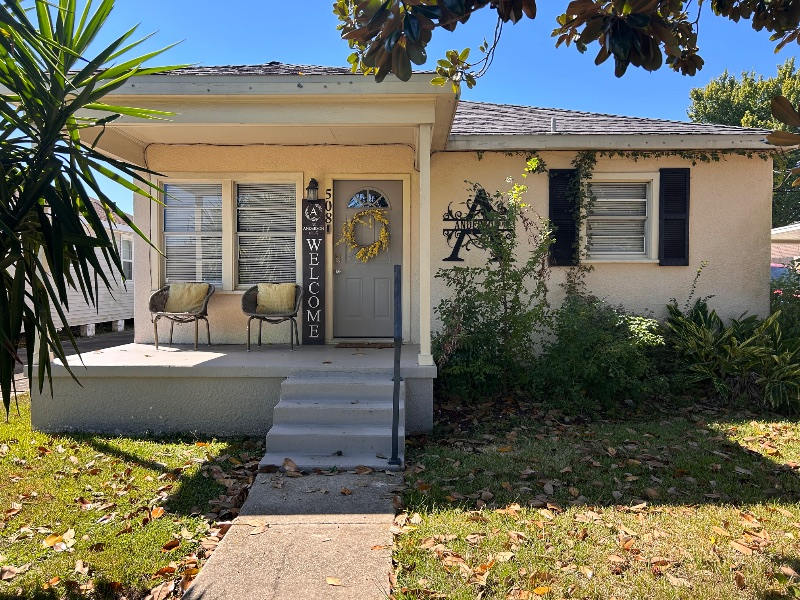
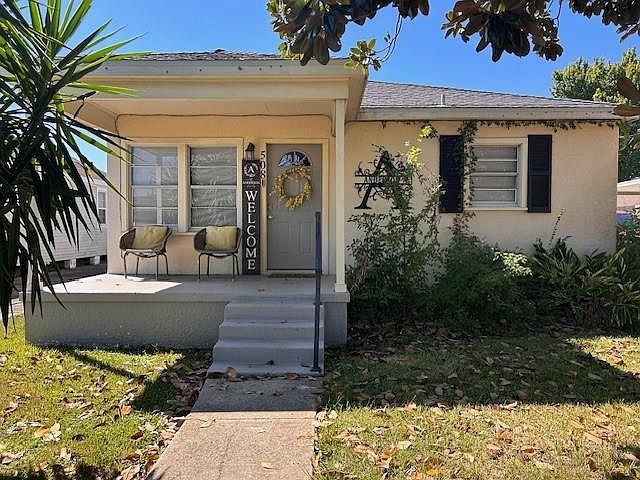
Revert the property photos to their pre-today state
Both Tricou galleries go back to the 08-23 originals at 1600px, and 508's
three swapped photos return to their earlier versions. The one thing not
reverted is 508's bathroom.jpg: yesterday's file was a photo of a bedroom
sitting under a "Bathroom" label, so restoring it would put a known factual
error back on the page. The current file is the actual bathroom.

This also removes the photos added today, which is worth stating plainly since
they filled real gaps: 1334 loses its bathroom and backyard shots, and 1332
loses its bedroom, bathroom and backyard. 1332 is listed as 2bd/2ba and once
again shows neither a bedroom nor a bathroom.

Thumbnail files are removed with the galleries that used them, so pages are
back to loading the full-size images directly.

diff --git a/public/property-508-avenue-e.html b/public/property-508-avenue-e.html
@@ -99,28 +99,28 @@
       </div>
       <div class="gallery-thumbs">
         <button class="active" data-full="images/properties/508-avenue-e/exterior-front.jpg" data-alt="Front exterior of 508 Avenue E">
-          <img src="images/properties/thumbs/508-avenue-e/exterior-front.jpg" alt="Front exterior thumbnail" width="480" height="319" loading="lazy">
+          <img src="images/properties/508-avenue-e/exterior-front.jpg" alt="Front exterior thumbnail" width="1024" height="682" loading="lazy">
         </button>
         <button data-full="images/properties/508-avenue-e/exterior-porch.jpg" data-alt="Front porch at 508 Avenue E">
-          <img src="images/properties/thumbs/508-avenue-e/exterior-porch.jpg" alt="Front porch thumbnail" width="480" height="360" loading="lazy">
+          <img src="images/properties/508-avenue-e/exterior-porch.jpg" alt="Front porch thumbnail" width="640" height="480" loading="lazy">
         </button>
         <button data-full="images/properties/508-avenue-e/living-room.jpg" data-alt="Living room at 508 Avenue E">
-          <img src="images/properties/thumbs/508-avenue-e/living-room.jpg" alt="Living room thumbnail" width="480" height="319" loading="lazy">
+          <img src="images/properties/508-avenue-e/living-room.jpg" alt="Living room thumbnail" width="1024" height="682" loading="lazy">
         </button>
         <button data-full="images/properties/508-avenue-e/living-room-furnished.jpg" data-alt="Living room at 508 Avenue E">
-          <img src="images/properties/thumbs/508-avenue-e/living-room-furnished.jpg" alt="Living room thumbnail" width="480" height="360" loading="lazy">
+          <img src="images/properties/508-avenue-e/living-room-furnished.jpg" alt="Living room thumbnail" width="640" height="480" loading="lazy">
         </button>
         <button data-full="images/properties/508-avenue-e/living-room-furnished-2.jpg" data-alt="Living room at 508 Avenue E">
-          <img src="images/properties/thumbs/508-avenue-e/living-room-furnished-2.jpg" alt="Living room thumbnail" width="480" height="360" loading="lazy">
+          <img src="images/properties/508-avenue-e/living-room-furnished-2.jpg" alt="Living room thumbnail" width="640" height="480" loading="lazy">
         </button>
         <button data-full="images/properties/508-avenue-e/kitchen.jpg" data-alt="Kitchen at 508 Avenue E">
-          <img src="images/properties/thumbs/508-avenue-e/kitchen.jpg" alt="Kitchen thumbnail" width="480" height="319" loading="lazy">
+          <img src="images/properties/508-avenue-e/kitchen.jpg" alt="Kitchen thumbnail" width="1024" height="682" loading="lazy">
         </button>
         <button data-full="images/properties/508-avenue-e/bedroom.jpg" data-alt="Bedroom at 508 Avenue E">
-          <img src="images/properties/thumbs/508-avenue-e/bedroom.jpg" alt="Bedroom thumbnail" width="480" height="319" loading="lazy">
+          <img src="images/properties/508-avenue-e/bedroom.jpg" alt="Bedroom thumbnail" width="1024" height="682" loading="lazy">
         </button>
         <button data-full="images/properties/508-avenue-e/bathroom.jpg" data-alt="Bathroom at 508 Avenue E">
-          <img src="images/properties/thumbs/508-avenue-e/bathroom.jpg" alt="Bathroom thumbnail" width="480" height="360" loading="lazy">
+          <img src="images/properties/508-avenue-e/bathroom.jpg" alt="Bathroom thumbnail" width="800" height="600" loading="lazy">
         </button>
       </div>
     </div>

diff --git a/public/property-1334-tricou-st.html b/public/property-1334-tricou-st.html
@@ -95,29 +95,23 @@
 
     <div class="gallery" data-gallery>
       <div class="gallery-main">
-        <img src="images/properties/1334-tricou/exterior-front.jpg" alt="Front exterior of 1334 Tricou St" width="1125" height="721">
+        <img src="images/properties/1334-tricou/exterior-front.jpg" alt="Front exterior of 1334 Tricou St" width="1600" height="1563">
       </div>
       <div class="gallery-thumbs">
         <button class="active" data-full="images/properties/1334-tricou/exterior-front.jpg" data-alt="Front exterior of 1334 Tricou St">
-          <img src="images/properties/thumbs/1334-tricou/exterior-front.jpg" alt="Front exterior thumbnail" width="480" height="307" loading="lazy">
+          <img src="images/properties/1334-tricou/exterior-front.jpg" alt="Front exterior thumbnail" width="1600" height="1563" loading="lazy">
         </button>
         <button data-full="images/properties/1334-tricou/living-room-wide.jpg" data-alt="Living room at 1334 Tricou St">
-          <img src="images/properties/thumbs/1334-tricou/living-room-wide.jpg" alt="Living room thumbnail" width="480" height="335" loading="lazy">
+          <img src="images/properties/1334-tricou/living-room-wide.jpg" alt="Living room thumbnail" width="1600" height="1200" loading="lazy">
         </button>
         <button data-full="images/properties/1334-tricou/kitchen.jpg" data-alt="Kitchen at 1334 Tricou St">
-          <img src="images/properties/thumbs/1334-tricou/kitchen.jpg" alt="Kitchen thumbnail" width="480" height="360" loading="lazy">
+          <img src="images/properties/1334-tricou/kitchen.jpg" alt="Kitchen thumbnail" width="1600" height="1200" loading="lazy">
         </button>
         <button data-full="images/properties/1334-tricou/bedroom.jpg" data-alt="Bedroom at 1334 Tricou St">
-          <img src="images/properties/thumbs/1334-tricou/bedroom.jpg" alt="Bedroom thumbnail" width="480" height="360" loading="lazy">
+          <img src="images/properties/1334-tricou/bedroom.jpg" alt="Bedroom thumbnail" width="1600" height="1200" loading="lazy">
         </button>
         <button data-full="images/properties/1334-tricou/living-room.jpg" data-alt="Open-plan living and dining area at 1334 Tricou St">
-          <img src="images/properties/thumbs/1334-tricou/living-room.jpg" alt="Open-plan living area thumbnail" width="480" height="335" loading="lazy">
-        </button>
-        <button data-full="images/properties/1334-tricou/bathroom.jpg" data-alt="Bathroom at 1334 Tricou St">
-          <img src="images/properties/thumbs/1334-tricou/bathroom.jpg" alt="Bathroom thumbnail" width="480" height="360" loading="lazy">
-        </button>
-        <button data-full="images/properties/1334-tricou/backyard.jpg" data-alt="Fenced backyard at 1334 Tricou St">
-          <img src="images/properties/thumbs/1334-tricou/backyard.jpg" alt="Backyard thumbnail" width="480" height="335" loading="lazy">
+          <img src="images/properties/1334-tricou/living-room.jpg" alt="Open-plan living area thumbnail" width="1600" height="1200" loading="lazy">
         </button>
       </div>
     </div>

diff --git a/public/property-1332-tricou-st.html b/public/property-1332-tricou-st.html
@@ -99,28 +99,19 @@
       </div>
       <div class="gallery-thumbs">
         <button class="active" data-full="images/properties/1332-tricou/exterior-front.jpg" data-alt="Front exterior of 1332 Tricou St">
-          <img src="images/properties/thumbs/1332-tricou/exterior-front.jpg" alt="Front exterior thumbnail" width="480" height="320" loading="lazy">
+          <img src="images/properties/1332-tricou/exterior-front.jpg" alt="Front exterior thumbnail" width="1600" height="1067" loading="lazy">
         </button>
         <button data-full="images/properties/1332-tricou/exterior-side.jpg" data-alt="Side exterior of 1332 Tricou St">
-          <img src="images/properties/thumbs/1332-tricou/exterior-side.jpg" alt="Side exterior thumbnail" width="480" height="320" loading="lazy">
+          <img src="images/properties/1332-tricou/exterior-side.jpg" alt="Side exterior thumbnail" width="1600" height="1067" loading="lazy">
         </button>
         <button data-full="images/properties/1332-tricou/living-room.jpg" data-alt="Living room at 1332 Tricou St">
-          <img src="images/properties/thumbs/1332-tricou/living-room.jpg" alt="Living room thumbnail" width="480" height="320" loading="lazy">
+          <img src="images/properties/1332-tricou/living-room.jpg" alt="Living room thumbnail" width="1600" height="1068" loading="lazy">
         </button>
         <button data-full="images/properties/1332-tricou/kitchen.jpg" data-alt="Kitchen at 1332 Tricou St">
-          <img src="images/properties/thumbs/1332-tricou/kitchen.jpg" alt="Kitchen thumbnail" width="480" height="320" loading="lazy">
+          <img src="images/properties/1332-tricou/kitchen.jpg" alt="Kitchen thumbnail" width="1600" height="1065" loading="lazy">
         </button>
         <button data-full="images/properties/1332-tricou/kitchen-dining.jpg" data-alt="Dining area and in-unit laundry at 1332 Tricou St">
-          <img src="images/properties/thumbs/1332-tricou/kitchen-dining.jpg" alt="Dining area and laundry thumbnail" width="480" height="331" loading="lazy">
-        </button>
-        <button data-full="images/properties/1332-tricou/bedroom.jpg" data-alt="Bedroom at 1332 Tricou St">
-          <img src="images/properties/thumbs/1332-tricou/bedroom.jpg" alt="Bedroom thumbnail" width="480" height="320" loading="lazy">
-        </button>
-        <button data-full="images/properties/1332-tricou/bathroom.jpg" data-alt="Bathroom at 1332 Tricou St">
-          <img src="images/properties/thumbs/1332-tricou/bathroom.jpg" alt="Bathroom thumbnail" width="480" height="320" loading="lazy">
-        </button>
-        <button data-full="images/properties/1332-tricou/backyard.jpg" data-alt="Private backyard and seating area at 1332 Tricou St">
-          <img src="images/properties/thumbs/1332-tricou/backyard.jpg" alt="Backyard thumbnail" width="480" height="335" loading="lazy">
+          <img src="images/properties/1332-tricou/kitchen-dining.jpg" alt="Dining area and laundry thumbnail" width="1600" height="1099" loading="lazy">
         </button>
       </div>
     </div>

diff --git a/public/properties.html b/public/properties.html
@@ -83,7 +83,7 @@
       <article class="card">
         <a href="property-1332-tricou-st.html" class="card-photo">
           <span class="card-badge">Multifamily</span>
-          <span class="card-photo-count">8 photos</span>
+          <span class="card-photo-count">5 photos</span>
           <img src="images/properties/1332-tricou/exterior-front.jpg" alt="Front exterior of 1332 Tricou St, New Orleans, LA" width="1600" height="1067">
         </a>
         <div class="card-body">
@@ -104,8 +104,8 @@
       <article class="card">
         <a href="property-1334-tricou-st.html" class="card-photo">
           <span class="card-badge">Multifamily</span>
-          <span class="card-photo-count">7 photos</span>
-          <img src="images/properties/1334-tricou/exterior-front.jpg" alt="Front exterior of 1334 Tricou St, New Orleans, LA" width="1125" height="721" loading="lazy">
+          <span class="card-photo-count">5 photos</span>
+          <img src="images/properties/1334-tricou/exterior-front.jpg" alt="Front exterior of 1334 Tricou St, New Orleans, LA" width="1600" height="1563" loading="lazy">
         </a>
         <div class="card-body">
           <div class="card-specs">2 <span>bd</span> 1 <span>ba</span> 1,117 <span>sqft</span></div>

diff --git a/public/index.html b/public/index.html
@@ -138,7 +138,7 @@
       <article class="card">
         <a href="property-1332-tricou-st.html" class="card-photo">
           <span class="card-badge">Multifamily</span>
-          <span class="card-photo-count">8 photos</span>
+          <span class="card-photo-count">5 photos</span>
           <img src="images/properties/1332-tricou/exterior-front.jpg" alt="Front exterior of 1332 Tricou St, New Orleans, LA" width="1600" height="1067" loading="lazy">
         </a>
         <div class="card-body">
